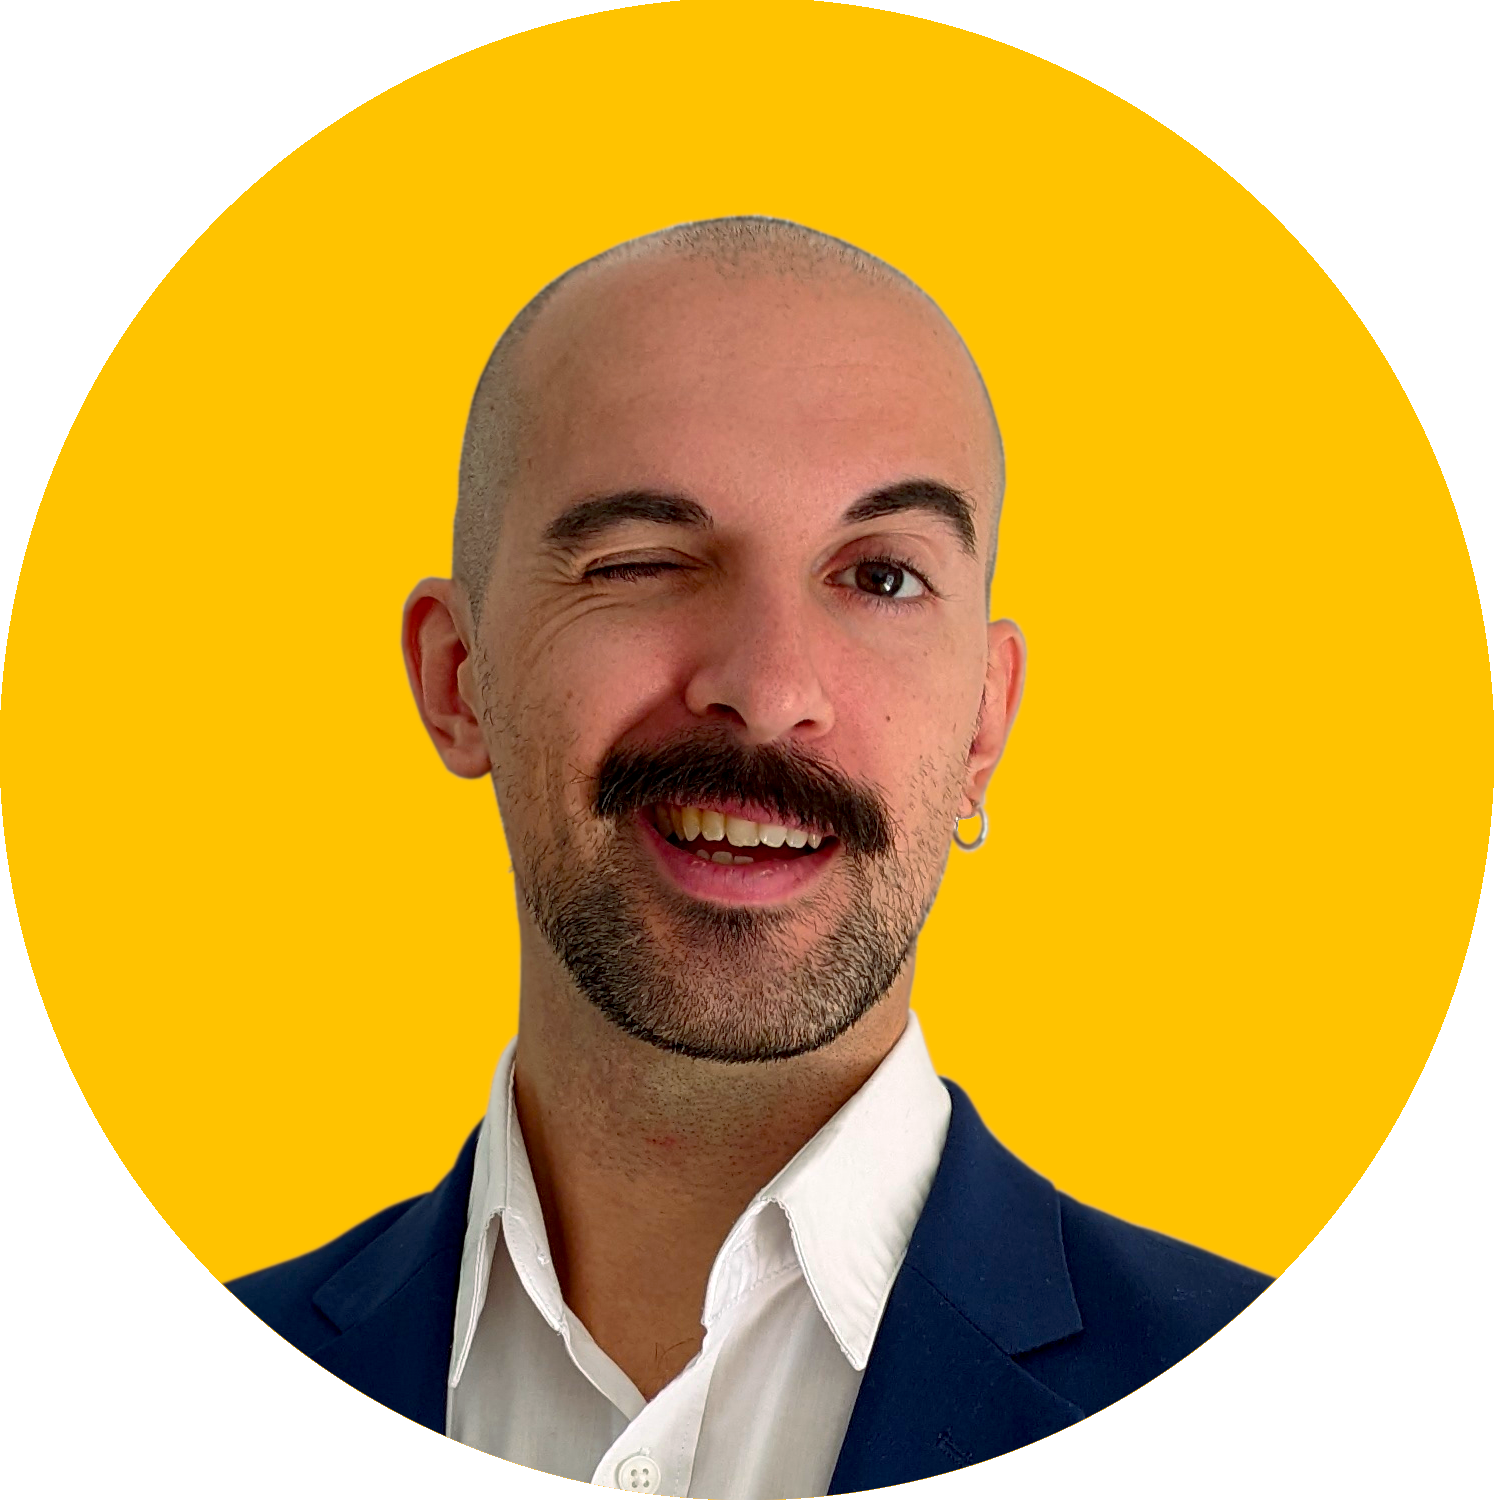
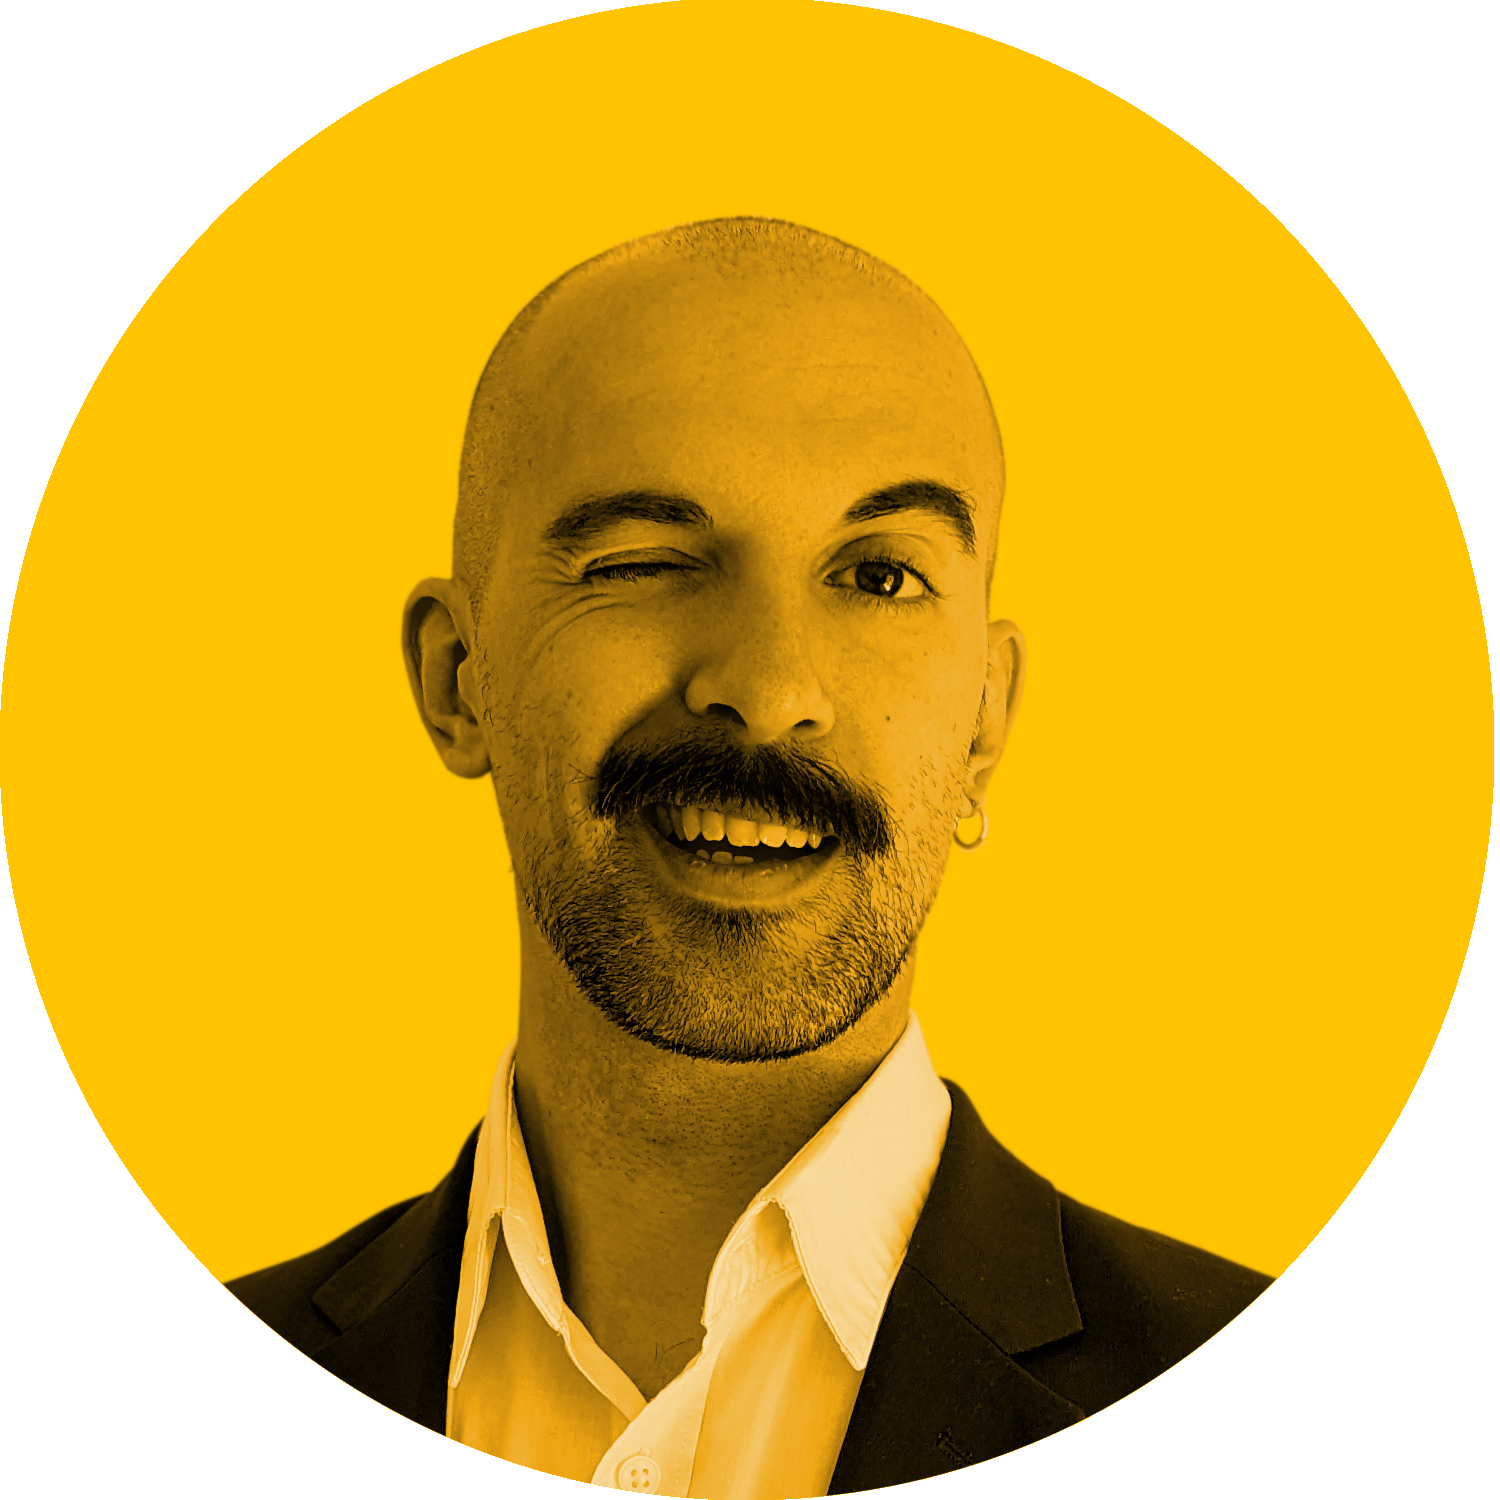
Implementing suggestions

Changed region(s): [[0.1533, 0.1227, 0.8587, 1.0]]

diff --git a/src/portfolio.js b/src/portfolio.js
@@ -215,9 +215,9 @@ const degrees = {
       alt_name: "",
       duration: "2012 - 2014",
       descriptions: [
-        "📚 Coursework of data mining, design, game engines, game development.",
-        "📚 Successfully developed various games in different roles: designer, programmer and project manager.",
-        "📚 Participated as a programmer in The National Academy of Digital and Interactive Entertainment (DADIU). Developed and released a full game on Google Play Store.",
+        "Coursework of data mining, design, game engines, game development.",
+        "Successfully developed various games in different roles: designer, programmer and project manager.",
+        "Participated as a programmer in The National Academy of Digital and Interactive Entertainment (DADIU). Developed and released a full game on Google Play Store.",
       ],
       website_link: "https://en.itu.dk/",
     },
@@ -228,7 +228,7 @@ const degrees = {
       alt_name: "",
       duration: "2008 - 2011",
       descriptions: [
-        "📚 Coursework of software engineering, databases and web, computer architectures, robotics, communication science and knowledgeengineering.",
+        "Coursework of software engineering, databases and web, computer architectures, robotics, communication science and knowledgeengineering.",
       ],
       website_link: "https://www.polimi.it/en",
     },
@@ -255,12 +255,12 @@ const experience = {
       alt_name: "",
       duration: "2020 - Present",
       descriptions: [
-        "⚡ Creating and updating the newest version of Clio's SaaS e-learning platform through the usage of React components.",
-        "⚡ Implementing tests of said components through jest and E2E tests using Selenium.",
-        "⚡ Extending and refactoring GitHub actions to leverage reusable workflows.",
-        "⚡ Pruning and prioritizing the product backlog involving stakeholders and the rest of the development teams to optimize deliveries.",
-        "⚡Promoting agile methodology by acting as facilitator during agile rituals and by introducing story points estimations.",
-        "⚡Bolstering communication and ownership by delegating implementation details to coworkers.",
+        "Promoting agile methodology by acting as facilitator during agile rituals and by introducing story points estimations.",
+        "Bolstering communication and ownership by delegating implementation details to coworkers.",
+        "Pruning and prioritizing the product backlog involving stakeholders and the rest of the development teams to optimize deliveries.",
+        "Creating and updating the newest version of Clio's SaaS e-learning platform through the usage of React components.",
+        "Implementing tests of said components through jest and E2E tests using Selenium.",
+        "Extending and refactoring GitHub actions to leverage reusable workflows.",
       ],
       video_url: "https://vimeo.com/656633848/b5f7ae097a",
     },
@@ -271,12 +271,12 @@ const experience = {
       alt_name: "",
       duration: "2013 - 2020",
       descriptions: [
-        "⚡ Developed in-game features for a massively multiplayer game with more than 100 million users split between web browsers, android and iOS devices. Followed design documents while introducing several UI and usability improvements to the user experience. Coded back-end robust and optimized C# .NET functionalities to retrieve and save data to support said features with particular attention to possible security breaches.",
-        "⚡ Streamlined the creation of games by developing a company-wide framework based on Unity3D that provided plug and play elements to game teams.",
-        "⚡ Worked within an agile scrum team implementing multiple features such as, player-to-player communication through a NodeJS server, in-game shops with dynamic scrollable lists etc.",
-        "⚡ Boosted productivity by drastically reducing time spent on marketing and support tasks by introducing tools for batch management of data and unification of publishing functionalities across all different game domains. The tools were made using ASP.NET with iterative development customer-oriented approach.",
-        "⚡ Conducted research about analytics best practices/technologies and developed the analytics pipeline of the company. The pipeline handled 50+ million events per day which were archived into the Snowflake warehouse and processed through PySpark procedures. Presented and taught architecture to other engineers.",
-        "⚡ Applied agile methodologies proactively focusing on improving and solving problems related to the development process. Held the rule of scrum master while also acting as facilitator in several meetings.",
+        "Developed in-game features for a massively multiplayer game with more than 100 million users split between web browsers, android and iOS devices. Followed design documents while introducing several UI and usability improvements to the user experience. Coded back-end robust and optimized C# .NET functionalities to retrieve and save data to support said features with particular attention to possible security breaches.",
+        "Streamlined the creation of games by developing a company-wide framework based on Unity3D that provided plug and play elements to game teams.",
+        "Worked within an agile scrum team implementing multiple features such as, player-to-player communication through a NodeJS server, in-game shops with dynamic scrollable lists etc.",
+        "Boosted productivity by drastically reducing time spent on marketing and support tasks by introducing tools for batch management of data and unification of publishing functionalities across all different game domains. The tools were made using ASP.NET with iterative development customer-oriented approach.",
+        "Conducted research about analytics best practices/technologies and developed the analytics pipeline of the company. The pipeline handled 50+ million events per day which were archived into the Snowflake warehouse and processed through PySpark procedures. Presented and taught architecture to other engineers.",
+        "Applied agile methodologies proactively focusing on improving and solving problems related to the development process. Held the rule of scrum master while also acting as facilitator in several meetings.",
       ],
       website_link: "https://corporate.moviestarplanet.com/",
     },

diff --git a/src/components/githubRepoCard/GithubRepoCard.js b/src/components/githubRepoCard/GithubRepoCard.js
@@ -10,7 +10,7 @@ export default function GithubRepoCard({ repo, theme }) {
   }
 
   return (
-    <div className="repo-card-div" style={{ backgroundColor: theme.highlight }}>
+    <div className="repo-card-div" style={{ backgroundColor: theme.text }}>
       <Fade bottom duration={2000} distance="40px">
         <div key={repo.id} onClick={() => openRepoinNewTab(repo.url)}>
           <div className="repo-name-div">
@@ -21,23 +21,24 @@ export default function GithubRepoCard({ repo, theme }) {
               role="img"
               viewBox="0 0 12 16"
               width="12"
+              style={{ fill: theme.body }}
             >
               <path
                 fillRule="evenodd"
                 d="M4 9H3V8h1v1zm0-3H3v1h1V6zm0-2H3v1h1V4zm0-2H3v1h1V2zm8-1v12c0 .55-.45 1-1 1H6v2l-1.5-1.5L3 16v-2H1c-.55 0-1-.45-1-1V1c0-.55.45-1 1-1h10c.55 0 1 .45 1 1zm-1 10H1v2h2v-1h3v1h5v-2zm0-10H2v9h9V1z"
               ></path>
             </svg>
-            <p className="repo-name" style={{ color: theme.text }}>
+            <p className="repo-name" style={{ color: theme.body }}>
               {repo.name}
             </p>
           </div>
-          <p className="repo-description" style={{ color: theme.text }}>
+          <p className="repo-description" style={{ color: theme.body }}>
             {repo.description}
           </p>
           <div className="repo-details">
             <p
               className="repo-creation-date subTitle"
-              style={{ color: theme.secondaryText }}
+              style={{ color: theme.body }}
             >
               Created on {repo.createdAt.split("T")[0]}
             </p>

diff --git a/src/components/degreeCard/DegreeCard.js b/src/components/degreeCard/DegreeCard.js
@@ -49,17 +49,19 @@ class DegreeCard extends Component {
               </div>
             </div>
             <div className="body-content">
-              {degree.descriptions.map((sentence, i) => {
-                return (
-                  <p
-                    key={i}
-                    className="content-list"
-                    style={{ color: theme.text }}
-                  >
-                    {sentence}
-                  </p>
-                );
-              })}
+              <ul>
+                {degree.descriptions.map((sentence, i) => {
+                  return (
+                    <li
+                      key={i}
+                      className="content-list"
+                      style={{ color: theme.text }}
+                    >
+                      {sentence}
+                    </li>
+                  );
+                })}
+              </ul>
               {degree.video_url && (
                 <ReactPlayer
                   url={degree.video_url}

diff --git a/src/components/degreeCard/DegreeCard.css b/src/components/degreeCard/DegreeCard.css
@@ -27,7 +27,7 @@
   border: 1px solid #d9dbdf;
   /* background-color: #6c63ff; */
   /* background: transparent; */
-  box-shadow: 5px 5px 5px #d9dbdf;
+  box-shadow: rgba(0, 0, 0, 0.2) 0px 10px 30px -15px;
 }
 
 .body-header {
@@ -37,6 +37,8 @@
   /* background-color:#6c63ff99; */
   border-radius: 7px 7px 0px 0px;
   padding: 10px;
+  padding-left: 42px;
+  padding-right: 42px;
 }
 
 .body-header-title {
@@ -65,6 +67,22 @@
   /* box-shadow: 5px 5px 5px #d3d3d3; */
 }
 
+.body-content ul {
+  margin-left: 1rem;
+  padding: 0;
+}
+
+.body-content li {
+  margin: 1rem;
+  padding: 0;
+}
+
+.body-content li::before {
+  display: table-cell;
+  vertical-align: top;
+  font-weight: bold;
+}
+
 .content-list {
   padding-left: 10px;
   padding-right: 10px;
@@ -78,7 +96,7 @@
   border-right: 1px solid #d9dbdf;
   border-radius: 7px;
   margin: 10px;
-  box-shadow: 5px 5px 5px #d9dbdf;
+  box-shadow: rgba(0, 0, 0, 0.2) 0px 10px 30px -15px;
 }
 
 .visit-btn {

diff --git a/src/pages/experience/Experience.css b/src/pages/experience/Experience.css
@@ -8,12 +8,10 @@
 
 .experience-main .card-body {
   background-color: var(--body-background-color);
-  box-shadow: 5px 5px 5px var(--darker-background-color);
 }
 
 .experience-main .card-img {
   background-color: var(--body-background-color);
-  box-shadow: 5px 5px 5px var(--darker-background-color);
 }
 
 .basic-experience {

diff --git a/src/pages/education/EducationComponent.css b/src/pages/education/EducationComponent.css
@@ -5,12 +5,10 @@
 
 .education-main .card-body {
   background-color: var(--highlight-color);
-  box-shadow: 5px 5px 5px var(--lighter-background-color);
 }
 
 .education-main .card-img {
   background-color: var(--highlight-color);
-  box-shadow: 5px 5px 5px var(--lighter-background-color);
 }
 
 .basic-education {

diff --git a/src/containers/greeting/Greeting.css b/src/containers/greeting/Greeting.css
@@ -54,6 +54,8 @@
 .greeting-image-div > * {
   max-width: 100%;
   height: auto;
+  border-radius: 50%;
+  box-shadow: rgba(0, 0, 0, 0.2) 0px 10px 30px -15px;
 }
 
 /* Media Query */

diff --git a/src/index.css b/src/index.css
@@ -66,7 +66,6 @@ body {
 
 :root {
   --dark-background-color: #ffc300;
-  --darker-background-color: #a57e00;
   --body-background-color: #edf9fe;
   --highlight-color: #ceeffd;
 }

diff --git a/src/components/header/Header.css b/src/components/header/Header.css
@@ -60,6 +60,7 @@
 
 .menu {
   font-family: "Google Sans Regular";
+  max-height: 60px;
 }
 
 .header .menu {
